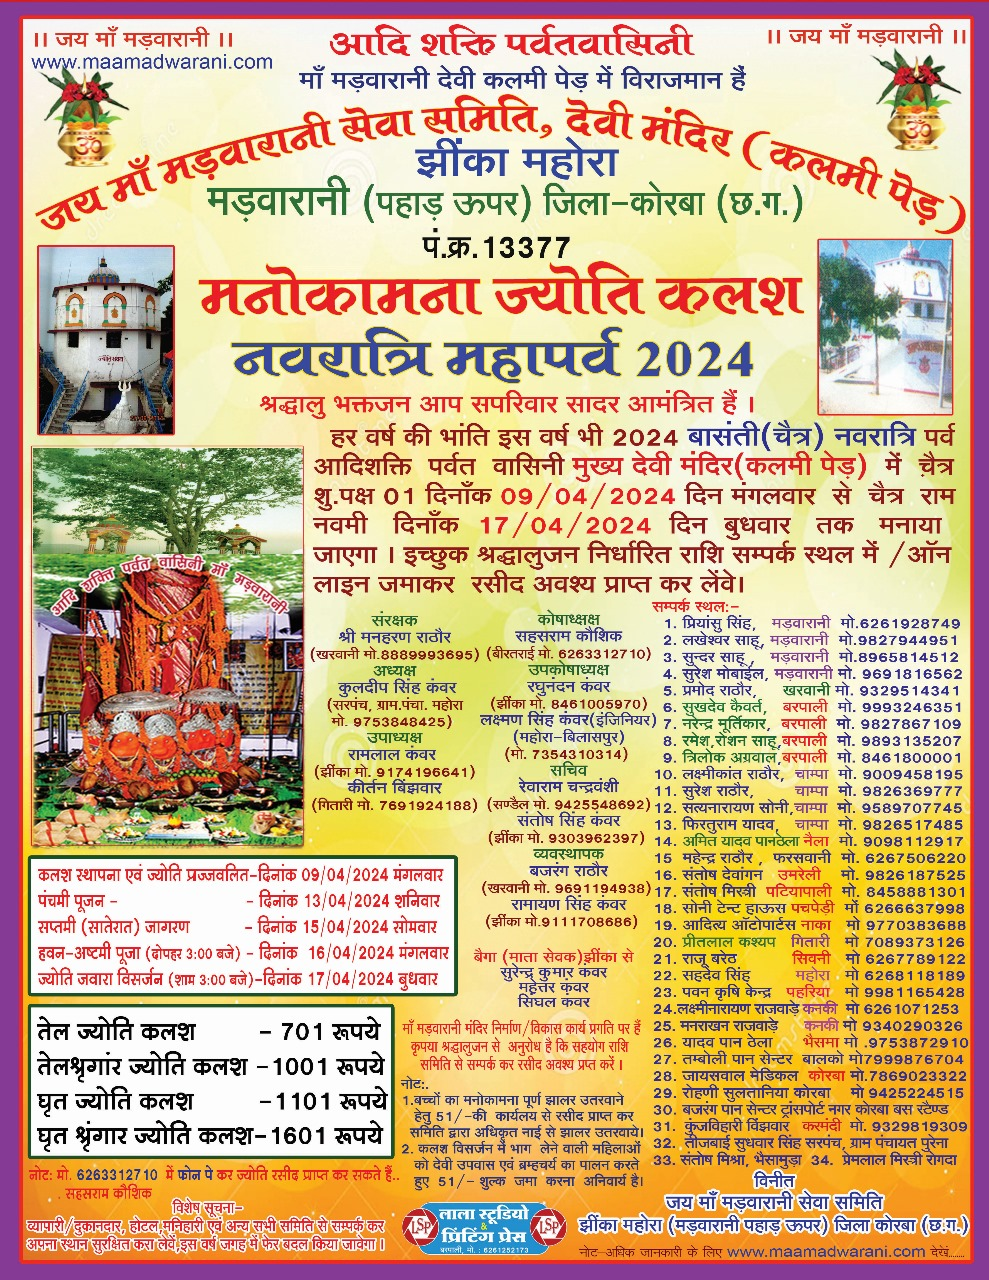
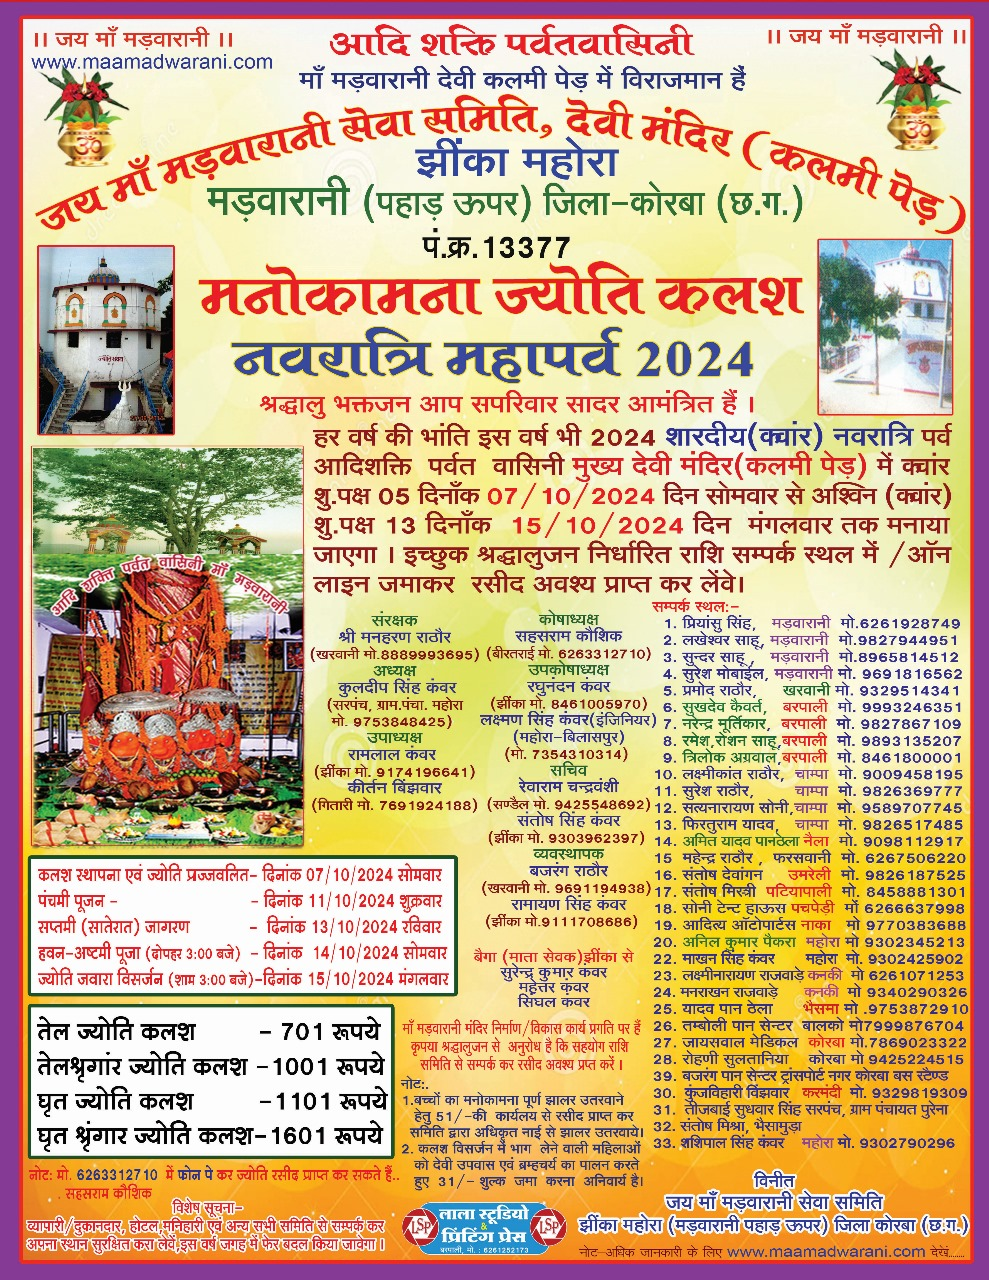
sardiya navratri 2024 changes

diff --git a/src/translations/hi/translations.js b/src/translations/hi/translations.js
@@ -39,7 +39,7 @@ export const TRANSLATIONS_HI = {
             evening: "सायं - 7:00 बजे से 8:00 बजे तक"
         },
         eventDetails: {
-            header: "बासंती (चैत्र) नवरात्रि महापर्व -2024",
+            header: "शारदीय (व्कांर) नवरात्रि महापर्व -2024",
             note: "टीप-कार्यक्रम हिंदू कलेंडर के अनुसार हैं -",
             tableHeaders: {
                 header1: "तिथि",
@@ -54,18 +54,18 @@ export const TRANSLATIONS_HI = {
                 event5: "ज्योति जवारा विसर्जन"
             },
             hinduCalDate: {
-                event1: "चैत्र शुक्ल पक्ष 1",
-                event2: "चैत्र शुक्ल पक्ष 5",
-                event3: "चैत्र शुक्ल पक्ष 7",
-                event4: "चैत्र शुक्ल पक्ष 8",
-                event5: "चैत्र शुक्ल पक्ष 9",
+                event1: "अश्विन शुक्ल पक्ष 5",
+                event2: "अश्विन शुक्ल पक्ष 8/9",
+                event3: "अश्विन शुक्ल पक्ष 11",
+                event4: "अश्विन शुक्ल पक्ष 12",
+                event5: "अश्विन शुक्ल पक्ष 13",
             },
             dates: {
-                event1: "9-04-2024 मंगलवार",
-                event2: "13-10-2024 शनिवार",
-                event3: "15-10-2024 सोमवार",
-                event4: "16-10-2024 मंगलवार",
-                event5: "17-10-2024 बुधवार",
+                event1: "07-10-2024 सोमवार",
+                event2: "11-10-2024 शुक्रवार",
+                event3: "13-10-2024 रविवार",
+                event4: "14-10-2024 सोमवार",
+                event5: "15-10-2024 मंगलवार",
             }
         }
     },

diff --git a/src/translations/en/translations.js b/src/translations/en/translations.js
@@ -39,7 +39,7 @@ export const TRANSLATIONS_EN = {
             evening: "Evening - 7:00 PM - 8:00 PM"
         },
         eventDetails: {
-            header: "Basanti (Chaitra) Navaratri Festival-2024",
+            header: "Sardiya (Kwanr) Navaratri Festival-2024",
             note: "Note : Events are held according to Hindu calendar-",
             tableHeaders: {
                 header1: "Hindu Calendar's Tithi",
@@ -54,18 +54,18 @@ export const TRANSLATIONS_EN = {
                 event5: "Jyoti kalash dispersion"
             },
             hinduCalDate: {
-                event1: "Chaitra shukla paksha 1",
-                event2: "Chaitra Shukla Paksha 5",
-                event3: "Chaitra Shukla Paksha 7",
-                event4: "Chaitra Shukla Paksha 8",
-                event5: "Chaitra Shukla Paksha 9",
+                event1: "Ashwin shukla paksha 5",
+                event2: "Ashwin Shukla Paksha 8/9",
+                event3: "Ashwin Shukla Paksha 11",
+                event4: "Ashwin Shukla Paksha 12",
+                event5: "Ashwin Shukla Paksha 13",
             },
             dates: {
-                event1: "9-04-2024 Tuesday",
-                event2: "13-10-2024 Saturday",
-                event3: "15-10-2024 Monday",
-                event4: "16-10-2024 Tuesday",
-                event5: "17-10-2024 Wednesday",
+                event1: "07-10-2024 Monday",
+                event2: "11-10-2024 Friday",
+                event3: "13-10-2024 Sunday",
+                event4: "14-10-2024 Monday",
+                event5: "15-10-2024 Tuesday",
             }
         }
     },
